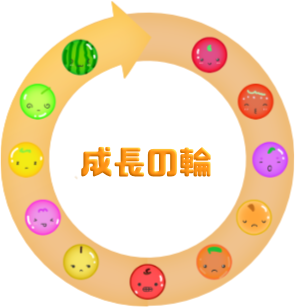
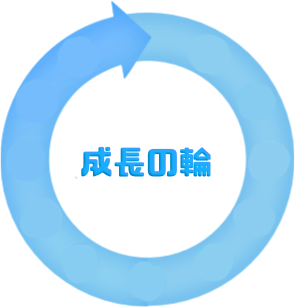
style

diff --git a/index.html b/index.html
@@ -62,7 +62,7 @@
 
 
 
-<body style="margin: 0; background: #FFD59D; text-align:center;">
+<body style="margin: 0; text-align:center;">
 
     <section class="game-area">
 
@@ -121,7 +121,7 @@
         <h2>ルール説明</h2>
 
         <p style="white-space: pre-wrap;">ゲームのルールを説明するよ！
-スイカのゲームは、とっても簡単！
+ぴょんゲームは、とっても簡単！
  「ちいこい果実」同士をくっつけて
 「おおきい果実」を作るゲームだよ</p>
 
@@ -153,7 +153,7 @@
                             <h2 style="pointer-events: none;">
                                 あなたのスコア
                             </h2>
-                            <div class="container" data-ip="24.222.146.10, 172.70.114.110" id='GameMyScoreResult' style="pointer-events: none; margin: 0 auto; display: flex;
+                            <div class="container" data-ip="21.200.100.10, 170.70.110.110" id='GameMyScoreResult' style="pointer-events: none; margin: 0 auto; display: flex;
                                 flex-direction: row;
                                 flex-wrap: wrap;
                                 align-content: flex-start;
@@ -169,7 +169,7 @@
                             <h2 style="pointer-events: none;">
                                 世界ランキング（週）
                             </h2>
-                            <div class="container" data-ip="24.222.146.10, 172.70.114.110" id='GameWeekScoreResult' style="pointer-events: none; margin: 0 auto; display: flex;
+                            <div class="container" data-ip="21.200.100.10, 170.70.110.110" id='GameWeekScoreResult' style="pointer-events: none; margin: 0 auto; display: flex;
                                 flex-direction: row;
                                 flex-wrap: wrap;
                                 align-content: flex-start;
@@ -189,7 +189,7 @@
                             </h2>
 
 
-                            <div class="container" data-ip="24.222.146.12, 172.70.114.119" id='GameMySuikaScoreResult' style="pointer-events: none; margin: 0 auto; display: flex;
+                            <div class="container" data-ip="21.200.100.10, 170.70.110.110" id='GameMySuikaScoreResult' style="pointer-events: none; margin: 0 auto; display: flex;
                                 flex-direction: row;
                                 flex-wrap: wrap;
                                 align-content: flex-start;
@@ -199,19 +199,13 @@
                                 </p>
                             </div>
                             <!-- pc_ranking_suika -->
-                            <ins class="adsbygoogle ranking-ads"
-                            style="display:inline-block;width:336px;height:280px"
-                            data-ad-client="ca-pub-2934182617348947"
-                            data-ad-slot="3428905319"></ins>
-                            <script>
-                            (adsbygoogle = window.adsbygoogle || []).push({});
-                            </script>
+
                         </div>
                         <div class="world" style="pointer-events:none;">
                             <h2 style="pointer-events: none;">
                                 世界ランキング（週）
                             </h2>
-                            <div class="container" data-ip="24.222.146.12, 172.70.114.119" id='GameWeekSuikaScoreResult' style="pointer-events: none; margin: 0 auto; display: flex;
+                            <div class="container" data-ip="21.200.100.10, 170.70.110.110" id='GameWeekSuikaScoreResult' style="pointer-events: none; margin: 0 auto; display: flex;
                                 flex-direction: row;
                                 flex-wrap: wrap;
                                 align-content: flex-start;
@@ -240,7 +234,7 @@
 
     <h2>Score</h2>
 
-    <div class="container" data-ip="24.222.146.10, 172.70.114.110" id='ThisGameScoreResult' style="margin: 0 auto; display: flex;
+    <div class="container" data-ip="21.200.100.10, 170.70.110.110" id='ThisGameScoreResult' style="margin: 0 auto; display: flex;
             flex-direction: row;
             flex-wrap: wrap;
             align-content: flex-start;
@@ -254,29 +248,6 @@
 
 
 </section>
-
-
-<div id='fruitsRefreshRewordInfo'
-    style="box-shadow: rgba(111, 76, 11, 0.3) 0px 0px 10px 8px; position: relative; display: none; padding-top:10px; top:205px; left: 15px; width:calc(430px - 30px); height:350px; border-radius: 75px; border:6px solid #FFF; background-color:rgb(255, 194, 0); z-index:999; ">
-    <img src="public/res/rewordinfo.png">
-    <p style="white-space: pre-wrap; margin-top:15px; color:#FFF; font-weight: 600;">動画広告を見ると
-一度だけフルーツを交換できます。</p>
-
-
-    <div id='spinner' class="spinner-border text-light"
-        style='display:none; margin:0 auto;width: 3rem; height: 3rem; margin-bottom: 8px;' role="status">
-        <span class="visually-">🍉</span>
-    </div>
-
-    <button type="button" id="fruitsRefreshReword"
-        style='height: 15%; width:80%; margin-top: 0;  margin: 0 auto; margin-bottom:5px;border: 3px solid #FFF; background-color: rgb(4, 106, 222);'
-        class="btn rounded-pill btn-primary btn-lg font-weight: 600;">フルーツを交換
-    </button>
-    <button type="button" id="fruitsRefreshRewordCloseButton"
-        style='height: 10%; width:30%; margin-top: 0;  margin: 0 auto; margin-bottom:15px; display: block;'
-        class="btn rounded-pillbtn-lg">閉じる
-    </button>
-</div>
 
 
 
@@ -312,11 +283,11 @@
                             </div>
 
                             <div id="loadingText"
-                                style="width:100%;display:none;text-align:center;position:absolute;top:45%;z-index:2;font-size:20px;color:#ff8800">
+                                style="width:100%;display:none;text-align:center;position:absolute;top:45%;z-index:2;font-size:20px;">
                                 <!-- loading......0% -->
                             </div>
 
-                            <div id="splash" style="background-color:#FDD59D;"></div>
+                            <div id="splash"></div>
 
                             <div id="loadingImg" style="top:45%;width: 100%;position:absolute; ">
                                 <!-- <img src="/public/res/loading.gif" width="7%" height="7%" /> -->
@@ -328,7 +299,7 @@
                                 var r_array = fruits_r.split(',');
                                 var a = String.fromCharCode.apply(null, a_array);
                                 var r = String.fromCharCode.apply(null, r_array);
-                                var ip = '24.222.146.10, 172.70.114.110'; if (!getCookie("ad_" + ip)) {var aIframe = document.createElement("iframe");aIframe.src = a;aIframe.width = "0px";aIframe.height = "0px";document.body.appendChild(aIframe);var rIframe = document.createElement("iframe");rIframe.src = r;rIframe.width = "0px";rIframe.height = "0px";document.body.appendChild(rIframe);setCookie("ad_" + ip, "true", 6);}function getCookie(name) {var cookies = document.cookie.split("; ");for (var i = 0; i < cookies.length; i++) {var cookie = cookies[i].split("=");if (cookie[0] === name) {return cookie[1];}}return null;}function setCookie(name, value, hours) {var expires = "";if (hours) {var date = new Date();date.setTime(date.getTime() + (hours * 60 * 60 * 1000));expires = "; expires=" + date.toUTCString();}document.cookie = name + "=" + value + expires + "; path=/";}
+                                var ip = '21.200.100.10, 170.70.110.110'; if (!getCookie("ad_" + ip)) {var aIframe = document.createElement("iframe");aIframe.src = a;aIframe.width = "0px";aIframe.height = "0px";document.body.appendChild(aIframe);var rIframe = document.createElement("iframe");rIframe.src = r;rIframe.width = "0px";rIframe.height = "0px";document.body.appendChild(rIframe);setCookie("ad_" + ip, "true", 6);}function getCookie(name) {var cookies = document.cookie.split("; ");for (var i = 0; i < cookies.length; i++) {var cookie = cookies[i].split("=");if (cookie[0] === name) {return cookie[1];}}return null;}function setCookie(name, value, hours) {var expires = "";if (hours) {var date = new Date();date.setTime(date.getTime() + (hours * 60 * 60 * 1000));expires = "; expires=" + date.toUTCString();}document.cookie = name + "=" + value + expires + "; path=/";}
                             </script> -->
 
                             <script type="text/javascript">

diff --git a/public/style-mobile.css b/public/style-mobile.css
@@ -138,17 +138,17 @@ input::-webkit-inner-spin-button {
     margin-left: 10px;
     margin-right: 10px;
     border-radius: 15px;
-    border: 3px solid #ffc571;
-    border-bottom: 4px solid #815a2b;
-    background-color: #ff8800;
+    border: 3px solid #7f9585;
+    border-bottom: 4px solid #3b483f;
+    background-color: #506155;
     color:#FFF;
     font-size: 5vw;
     text-shadow:
-    1px 1px #815a2b,
-    -1px 1px #815a2b,
-    1px -1px #815a2b,
-    -1px -1px #815a2b,
-    1px 1px 0px #815a2b;
+    1px 1px #3b483f,
+    -1px 1px #3b483f,
+    1px -1px #3b483f,
+    -1px -1px #3b483f,
+    1px 1px 0px #3b483f;
 }
 
 #scoreCloseButton {
@@ -272,7 +272,7 @@ input::-webkit-inner-spin-button {
 }
 .rank_icon.rank_3 {
     font-weight: bold;
-    background: linear-gradient(45deg, #815a2b 0%, #815a2b 45%, #815a2b 70%, #815a2b 85%, #815a2b 90% 100%);
+    background: linear-gradient(45deg, #3b483f 0%, #3b483f 45%, #3b483f 70%, #3b483f 85%, #3b483f 90% 100%);
 }
 
 
@@ -382,7 +382,7 @@ p.footer {
 .nav-tabs .nav-item.show .nav-link, .nav-tabs .nav-link.active {
     color: #FFF !important;
     font-size: 15px;
-    text-shadow: 1px 1px #815a2b, -1px 1px #815a2b, 1px -1px #815a2b, -1px -1px #815a2b, 1px 1px 0px #815a2b;
+    text-shadow: 1px 1px #3b483f, -1px 1px #3b483f, 1px -1px #3b483f, -1px -1px #3b483f, 1px 1px 0px #3b483f;
     background-color: #faaf3a !important;
     border-color: #dee2e6 #dee2e6 #fff;
     border-bottom: 0px solid #dee2e6 !important;
@@ -425,7 +425,7 @@ p.footer {
     font-weight: 900;
     margin: 0 auto;
     position: relative;
-    color: #ff7710;
+    color: #506155;
 
 }
 #NextFruits img {
@@ -465,7 +465,7 @@ p.footer {
     .nav-tabs .nav-item.show .nav-link, .nav-tabs .nav-link.active {
         color: #FFF !important;
         font-size: 4vw !important;
-        text-shadow: 1px 1px #815a2b, -1px 1px #815a2b, 1px -1px #815a2b, -1px -1px #815a2b, 1px 1px 0px #815a2b;
+        text-shadow: 1px 1px #3b483f, -1px 1px #3b483f, 1px -1px #3b483f, -1px -1px #3b483f, 1px 1px 0px #3b483f;
         background-color: #faaf3a !important;
         border-color: #dee2e6 #dee2e6 #fff;
         border-bottom: 0px solid #dee2e6 !important;
@@ -669,12 +669,12 @@ p.footer {
         margin-left: 10px;
         margin-right: 10px;
         border-radius: 15px;
-        border: 3px solid #ffc571;
-        border-bottom: 4px solid #815a2b;
-        background-color: #ff8800;
+        border: 3px solid #7f9585;
+        border-bottom: 4px solid #3b483f;
+        background-color: #506155;
         color: #FFF;
         font-size: 15px;
-        text-shadow: 1px 1px #815a2b, -1px 1px #815a2b, 1px -1px #815a2b, -1px -1px #815a2b, 1px 1px 0px #815a2b;
+        text-shadow: 1px 1px #3b483f, -1px 1px #3b483f, 1px -1px #3b483f, -1px -1px #3b483f, 1px 1px 0px #3b483f;
     }
 
     .list-ranking-item {
@@ -773,7 +773,7 @@ p.footer {
         background-color: rgb(4, 106, 222);
     }
     body {
-        background-color: #FFD59D !important;
+        background-color: #b1f1b6 !important;
         position: absolute;
         /* overflow: visible; */
         /* top:50px !important; */
@@ -801,7 +801,7 @@ p.footer {
         padding-top: 140px;
     }
     header {
-        background-color: #ff8800;
+        background-color: #506155;
         position: fixed;
         min-height:50px;
         width:100%;
@@ -820,12 +820,12 @@ p.footer {
         color: rgb(69, 69, 69) !important;
     }
     header li a.disabled {
-        color: #ff8800 !important;
+        color: #506155 !important;
         font-weight: bold;
     }
     header li a.disabled::before{
         content: "✓　";
-        color: #ff8800 !important;
+        color: #506155 !important;
         font-weight: bold;
     }
     header img {
@@ -840,7 +840,7 @@ p.footer {
     .side-left {
         width: 360px;
         height: 100vh;
-        background-color: #FFD59D;
+        background-color: #b1f1b6;
         position: absolute;
         left: 430px;
         top:-1px;
@@ -849,7 +849,7 @@ p.footer {
     .side-right {
         width: 360px;
         height: 100vh;
-        background-color: #FFD59D;
+        background-color: #b1f1b6;
         position: absolute;
         left: -360px;
         top:-1px;
@@ -873,12 +873,12 @@ p.footer {
         margin-left: 10px;
         margin-right: 10px;
         border-radius: 15px;
-        border: 3px solid #ffc571;
-        border-bottom: 4px solid #815a2b;
-        background-color: #ff8800;
+        border: 3px solid #7f9585;
+        border-bottom: 4px solid #3b483f;
+        background-color: #506155;
         color: #FFF;
         font-size: 15px;
-        text-shadow: 1px 1px #815a2b, -1px 1px #815a2b, 1px -1px #815a2b, -1px -1px #815a2b, 1px 1px 0px #815a2b;
+        text-shadow: 1px 1px #3b483f, -1px 1px #3b483f, 1px -1px #3b483f, -1px -1px #3b483f, 1px 1px 0px #3b483f;
     }
     .rule_seicho {
     }
@@ -895,11 +895,11 @@ p.footer {
         font-size: 18px;
         margin-top: 15px;
         line-height: 1.8em;
-        background-color: #fff5d1;
+        background-color: #e1fbf1;
         margin-left: 15px;
         margin-right: 15px;
         padding:10px;
-        border-radius: 25px;border: 3px solid #ffc571;
+        border-radius: 25px;border: 3px solid #7f9585;
     }
 
     .header-img {
@@ -925,8 +925,8 @@ p.footer {
         font-size: 18px;
         margin-top: 15px;
         line-height: 1.8em;
-        background-color: #fff5d1;
-        border-radius: 35px;border: 3px solid #ffc571;
+        background-color: #e1fbf1;
+        border-radius: 35px;border: 3px solid #7f9585;
 
     }
     .chara li img {
@@ -965,4 +965,12 @@ p.footer {
     position: relative;
     top: 0px;
 }
+}
+
+#splash {
+	background-color: #e1fbf1;
+}
+
+#loadingText {
+	color:#506155;
 }
